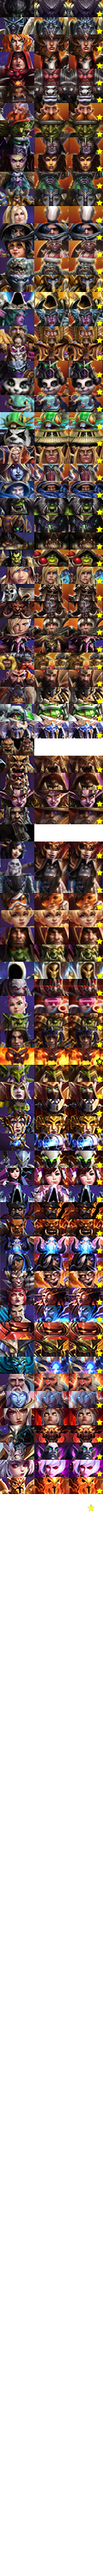
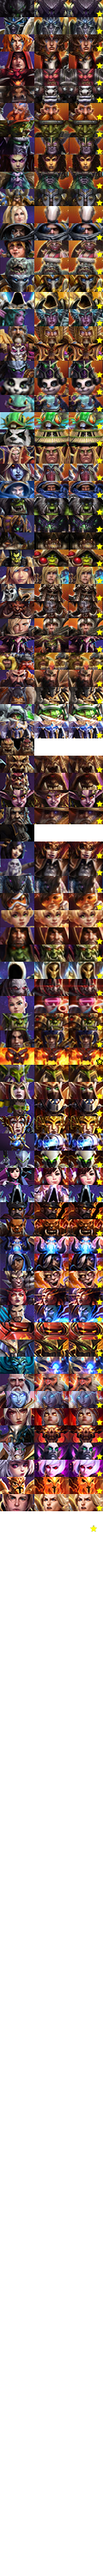
Update subreddit for Anduin's release

Changed region(s): [[0.0, 0.558, 1.0, 0.589]]

diff --git a/custom.scss b/custom.scss
@@ -603,7 +603,7 @@ a.voteWeight {
 
 div.titlebox span.number:after {
   z-index: 1;
-  content: " Archangels of Valor"
+  content: " Kings of Stormwind"
 }
 
 .titlebox .users-online {
@@ -620,7 +620,7 @@ div.titlebox span.number:after {
 
 .titlebox .users-online .number:after {
   z-index: 1;
-  content: " leading the Heavenly Host"
+  content: " leading the Alliance"
 }
 
 .titlebox .number,

diff --git a/user_flair/hero_flair.scss b/user_flair/hero_flair.scss
@@ -91,3 +91,4 @@
 @include hero-flair-set("malganis",    84);
 @include hero-flair-set("orphea",      85);
 @include hero-flair-set("imperius",    86);
+@include hero-flair-set("anduin",      87);
